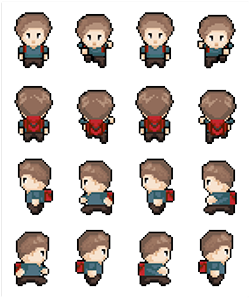
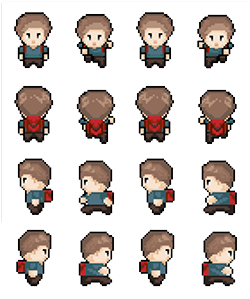
building levels and making walls, still got miles to go, getting a little bored but getting there

diff --git a/newGame.js b/newGame.js
@@ -10,6 +10,9 @@ import { DOWN, Input, LEFT, RIGHT, UP } from "./Input.js";
 import { resources } from "./Resources.js";
 import { Sprite } from "./sprite.js";
 import { Vector2 } from "./Vector2.js";
+import { Animations } from "./Animations.js";
+import { FrameIndexPattern } from "./frameIndexPattern.js";
+import { STAND_DOWN, STAND_LEFT, STAND_RIGHT, STAND_UP, WALK_DOWN, WALK_LEFT, WALK_RIGHT, WALK_UP } from "./Objects/Hero/heroAnimation.js";
 
 // need to build some image files for the game - sky, grass, wall, player, enemy, door, key
 
@@ -47,10 +50,22 @@ const hero = new Sprite({
     hFrames: 4,
     vFrames: 4,
     frame: 0,
-    position: new Vector2(gridCells(10), gridCells(15))
+    position: new Vector2(gridCells(10), gridCells(15)),
+    animations: new Animations ({
+        walkDown: new FrameIndexPattern(WALK_DOWN),
+        walkUp: new FrameIndexPattern(WALK_UP),
+        walkLeft: new FrameIndexPattern(WALK_LEFT),
+        walkRight: new FrameIndexPattern(WALK_RIGHT),
+        standDown: new FrameIndexPattern(STAND_DOWN),
+        standUp: new FrameIndexPattern(STAND_UP),
+        standLeft: new FrameIndexPattern(STAND_LEFT),
+        standRight: new FrameIndexPattern(STAND_RIGHT),
+        
+    })
 })
 
 const heroDestinationPosition = hero.position.duplicate();
+let heroFacing = DOWN;
 
 
 const shadow = new Sprite({
@@ -61,7 +76,7 @@ const shadow = new Sprite({
 
 const input = new Input();
 
-const update = () => {
+const update = (delta) => {
 
     const distance = moveTowards(hero, heroDestinationPosition, 1);
     // 1 instead of 0, this allows you to reach destintion even if you release key
@@ -71,7 +86,8 @@ const update = () => {
         tryMove();
     }
     
-
+    // hero animation controls
+    hero.step(delta);
     
 
    
@@ -81,6 +97,12 @@ console.log(input.direction);
 
 const tryMove = () => {
     if (!input.direction) {
+
+       if(heroFacing ===LEFT) {hero.animations.play('standLeft')} 
+       if(heroFacing === RIGHT) {hero.animations.play('standRight')} 
+       if(heroFacing === UP) {hero.animations.play('standUp')} 
+       if(heroFacing === DOWN) {hero.animations.play('standDown')} 
+
         return;
     }
     // where dstinatin pos is now, grid size is like
@@ -92,27 +114,31 @@ const tryMove = () => {
 
     if (input.direction === DOWN) {
         nextY += gridSize;
+        hero.animations.play('walkDown');
         //hero.position.y += 1;
-        hero.frame = 0;
+        // hero.frame = 0;
         // keydown for frames1-3, keyup frame 0?
     }
     if (input.direction === UP) {
         nextY -= gridSize;
+        hero.animations.play('walkUp');
         //hero.position.y -= 1;
-        hero.frame = 4;
+        //hero.frame = 4;
     }
     if (input.direction === LEFT) {
-       
         nextX -= gridSize;
+        hero.animations.play('walkLeft');
         // hero.position.x -= 1;
-        hero.frame = 8;
+       // hero.frame = 8;
     }
     if (input.direction === RIGHT) {
         nextX += gridSize;
+        hero.animations.play('walkRight');
         //hero.position.x += 1;
-        hero.frame = 12;
+        //hero.frame = 12;
     }
     
+    heroFacing = input.direction ?? heroFacing;
     console.log(input.direction);
     //updating position of hero
 

diff --git a/frameIndexPattern.js b/frameIndexPattern.js
@@ -1,0 +1,55 @@
+// constructors are a way to paramtrically control the creation of objects by
+// defining the paramtrers at constructor level, 
+// these paramters are then left blank, to be initialised when pulling
+// the contructor out of teh bag and writing a sprite for example
+//this.ting = 'ting' - the this. part of the object accepts the input on the right
+
+
+// classes are a way of combining constructors and functions as a scalable 
+//parametric object. we call things from the classes using dot notation
+// kind of like building a repo within the code
+// assuming faster memory allows thsi to be a modern thing
+// this means we can call funtions from the classes too
+
+// i think the intial parameters of the constructor, held within the 
+// first set of brackets () denote a required parameter, whereas the rest are 
+// not mandatory. this means the logic can be extracted from this sole param
+// which needs to be coded within the class
+
+export class FrameIndexPattern {
+    constructor(animationConfig) {
+        this.currentTime = 0;
+        this.animationTime = 0;
+        this.animationConfig = animationConfig;
+        this.duration = animationConfig.duration ?? 500;
+
+    }
+
+    // this is referencing the animation.config yet to be input
+    // heroanimcation.forward is an example
+    // so this is a destructurig assignment based on the input 
+    // this is only to grab a frame id to then use specifci frame
+    get frame() {
+        const {frames} = this.animationConfig;
+        for (let i = frames.length - 1; i >= 0; i--) {
+            if (this.currentTime >= frames[i].time) {
+                return frames[i].frame;
+            }
+        }
+        throw 'time is before first keyframe oh no';
+    }
+
+
+    // this step method is basically the loop, 
+    // it adds delta(time elapsed) to current time (set to 0)
+    // delta is created from this equation
+    // current time should be > than duration
+    // if it is bigger then the reset occurs
+
+    step(delta) {
+        this.currentTime += delta;
+        if (this.currentTime >= this.duration) {
+            this.currentTime = 0;
+        }
+    }
+}

diff --git a/sprite.js b/sprite.js
@@ -1,4 +1,5 @@
 import { Vector2 } from "./Vector2.js";
+import { Animations } from "./Animations.js";
 
 
 export class Sprite {
@@ -10,6 +11,7 @@ export class Sprite {
         frame,      // which frame we want to show
         scale,      // how large to draw image
         position,       // where to draw image
+        animations,
 
         // this is going to be called everytimne we use a new sprite, 
         // we will genersate a grid oin the sprite sheet so we call frame 
@@ -24,6 +26,7 @@ export class Sprite {
         this.frameMap = new Map(); //unsure how this links to BFM below
         this.scale = scale ?? 1;
         this.position = position ?? new Vector2(0,0);
+        this.animations = animations ?? null;
         this.buildFrameMap();
     }
 
@@ -44,6 +47,17 @@ export class Sprite {
             }
         }
 
+    }
+// adding this here now to be wired thorugh the sprite
+//there will be a meta delta which will be used across the board later in the 
+// course but we are yet to get there
+// so currently wiring a step method (loop) individually
+    step(delta) {
+        if (!this.animations) {
+            return; // no animation? dont do anything
+        }
+        this.animations.step(delta);
+        this.frame = this.animations.frame;
     }
 
     

diff --git a/Objects/Hero/heroAnimation.js b/Objects/Hero/heroAnimation.js
@@ -1,0 +1,51 @@
+//animation scrolling thfough different sprite sheet frames
+// will be coded to loop once it reaches final 400 ms point
+//amd to accoutn for directions
+const makeWalkingFrames = (rootFrame = 0) => {
+
+return {
+    duration: 400,
+    frames: [
+        {
+        time:0,
+        frame:rootFrame
+        },
+        {
+        time:100,
+        frame:rootFrame+1
+        },
+        {
+        time:200,
+        frame:rootFrame+2
+        },
+        {
+        time:300,
+        frame:rootFrame+3
+        },
+    ]
+}
+}
+const makeStandingFrames = (rootFrame = 0) => {
+
+return {
+    duration: 400,
+    frames: [
+        {
+        time:0,
+        frame:rootFrame
+        },
+    ]
+}
+}
+
+// we pass these into the FIP to create the sereis of frames 
+//to loop through
+export const STAND_DOWN = makeStandingFrames(0);
+export const STAND_UP = makeStandingFrames(4);
+export const STAND_LEFT = makeStandingFrames(8);
+export const STAND_RIGHT = makeStandingFrames(12);
+
+export const WALK_DOWN = makeWalkingFrames(0);
+export const WALK_UP = makeWalkingFrames(4);
+export const WALK_LEFT = makeWalkingFrames(8);
+export const WALK_RIGHT = makeWalkingFrames(12);

diff --git a/Levels/Level1.js b/Levels/Level1.js
@@ -1,0 +1,31 @@
+export const Walls = new Set();
+
+// this is not efficient, need to figure out a way of scattering the 
+// coords across wihtout inputting each figure 
+// like x = 60 - 210, y = 230 - 155
+// could this be done with a for loop?
+// have implemented below, will thsi work?
+
+// shore line boundary - left to right
+for (let x = 0; x > 210; x + 16) {
+    for(let y = 255; y < 155; y - 16) {
+        walls.add(x, y);
+    }
+};
+
+// bottom line boundary - right to left
+for (let x = 0; x > 192; x + 16) {
+    for(let y = 255; y < 272; y - 15) {
+        walls.add(x, y);
+    }
+};
+
+
+
+walls.add('210,155'); // shore line
+walls.add('180,175'); 
+walls.add('150,185'); 
+walls.add('120,205'); 
+walls.add('90,220'); 
+walls.add('60,230'); 
+walls.add('60,230'); 

diff --git a/Animations.js b/Animations.js
@@ -1,0 +1,29 @@
+
+
+export class Animations {
+    constructor(patterns) {
+        this.patterns = patterns;
+        // this is plucking out teh first one, the active frame? using keys
+        //the first key in this spwcific patterns bucket
+        // this could be filled with all kinds of different animations
+        this.activeKey = Object.keys(this.patterns)[0];
+    }
+
+    get frame() {
+        return this.patterns[this.activeKey].frame;
+    }
+
+    play(key, startAtTime = 0) {
+        if (this.activeKey === key) {
+            return;
+        }
+        //switch???
+        this.activeKey = key;
+        this.patterns[this.activeKey].currentTime = startAtTime;
+
+    }
+
+    step(delta) {
+        this.patterns[this.activeKey].step(delta);
+    }
+}

diff --git a/helpers/grid.js b/helpers/grid.js
@@ -1,4 +1,8 @@
 export const gridCells = n => {
     return n * 16;
 
-};
+}
+
+export const isSpaceFree = (walls,x, y) => {
+    return true;
+}
